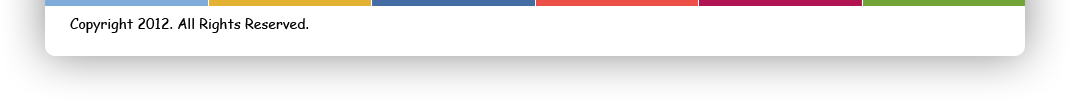
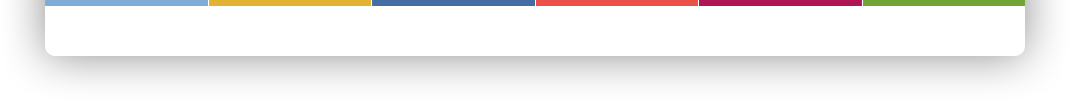
Footer Changed, Add Children's Home data load bug fixed

Changed region(s): [[0.0617, 0.18, 0.3084, 0.33]]

diff --git a/childcare/WebContent/css/layout.css b/childcare/WebContent/css/layout.css
@@ -124,6 +124,14 @@ a:hover, a:active, a:focus { /* this group of selectors will give a keyboard nav
 	background:url(../images/footerNew.png) 0 0 no-repeat;
 }
 
+.comicsans {
+	font-family: "Indie Flower";
+	font-weight: 100;
+	font-style: normal;
+	font-size: 16px;
+	line-height: 16px;
+}
+
 /* ~~ miscellaneous float/clear classes ~~ */
 .fltrt {  /* this class can be used to float an element right in your page. The floated element must precede the element it should be next to on the page. */
 	float: right;
